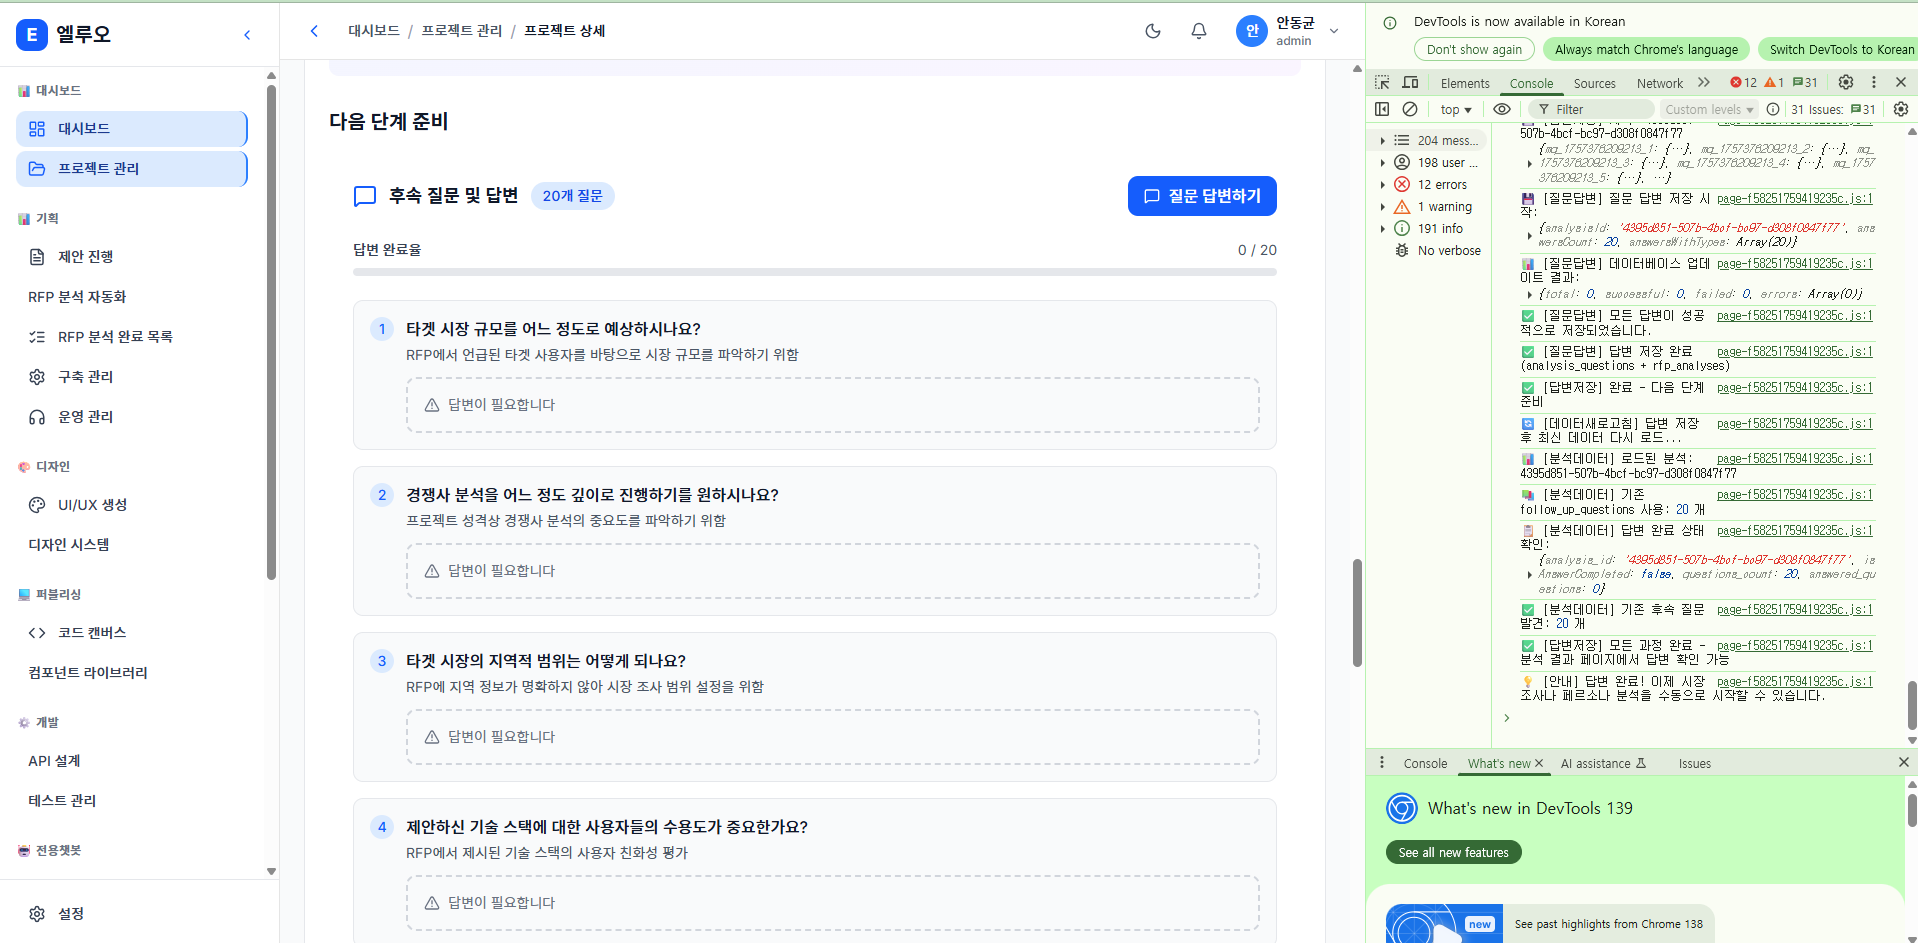
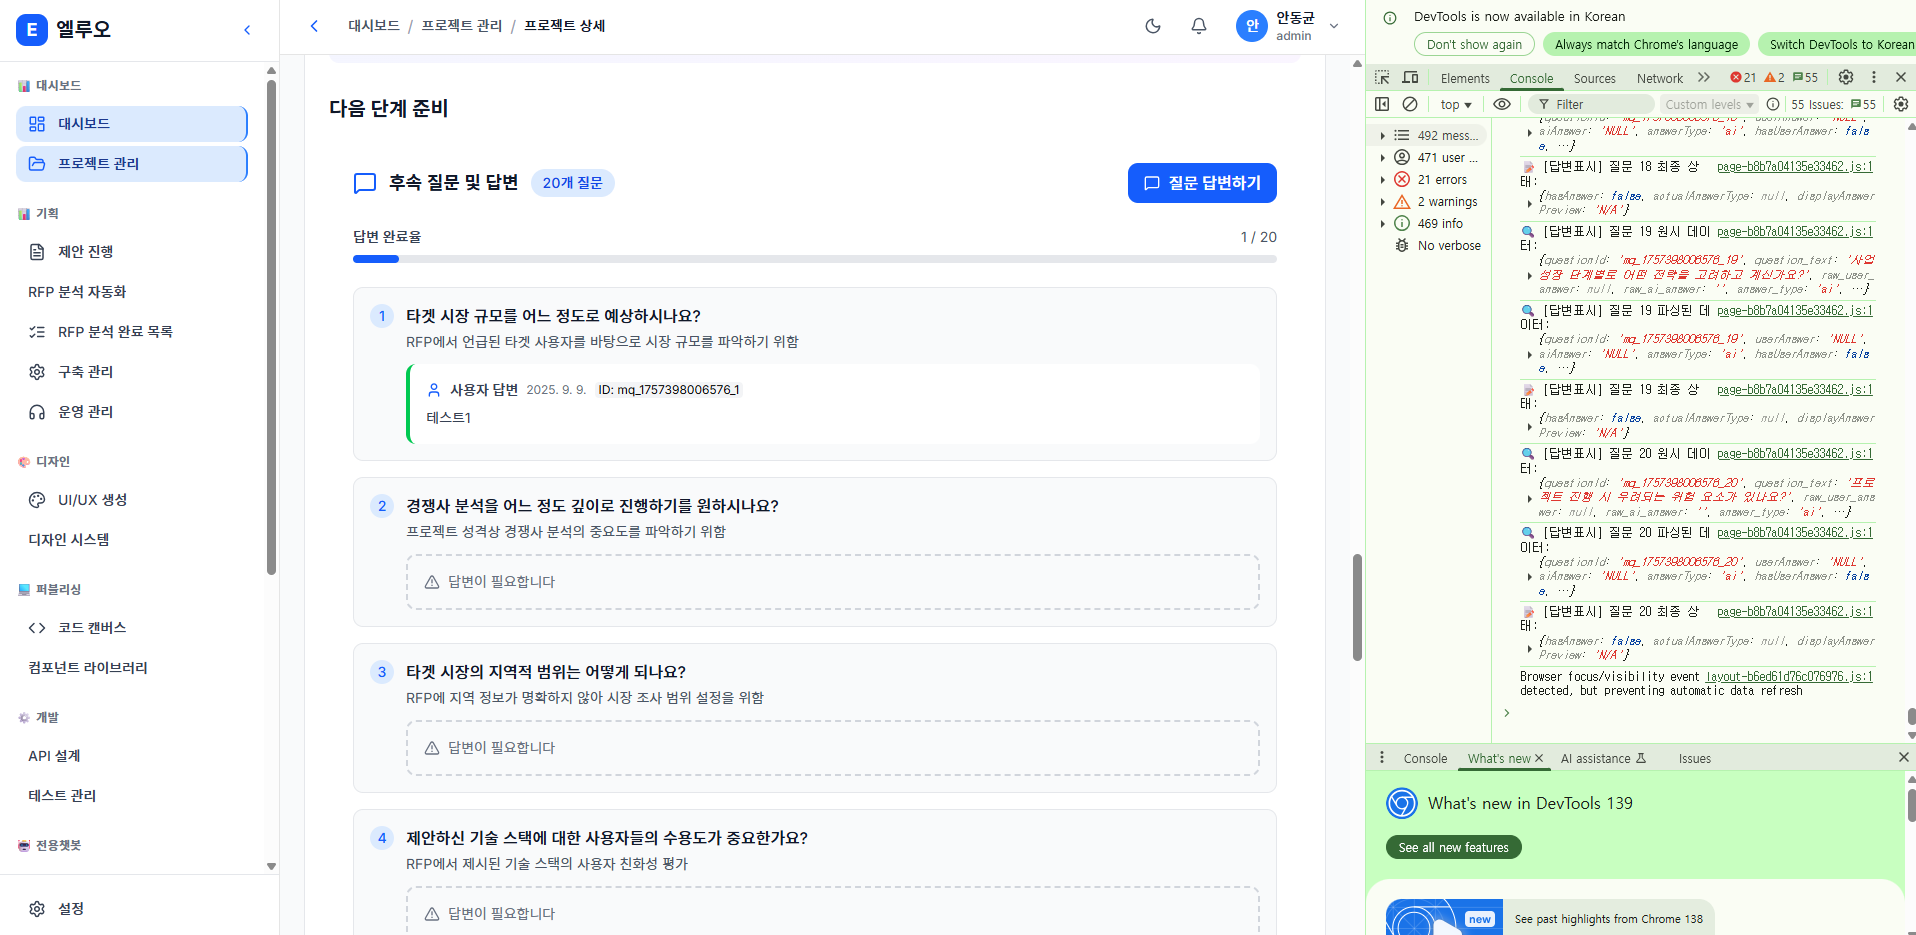
fix: AI 질문 생성 시 답변 저장 로직 개선 및 디버깅 로그 추가

diff --git a/src/app/api/rfp/generate-questions/route.ts b/src/app/api/rfp/generate-questions/route.ts
@@ -130,18 +130,27 @@ export async function POST(request: NextRequest) {
     const aiResponse = anthropicResult.content[0]?.text || ''
 
     console.log('📄 [후속질문-생성] AI 응답 수신:', aiResponse.length, '문자')
+    console.log('🔍 [후속질문-생성] AI 응답 내용 (처음 500자):', aiResponse.substring(0, 500))
 
     // JSON 응답 파싱
     let questionData
     try {
       const jsonMatch = aiResponse.match(/\{[\s\S]*\}/)
       if (jsonMatch) {
+        console.log('✅ [후속질문-생성] JSON 매치 성공:', jsonMatch[0].substring(0, 200))
         questionData = JSON.parse(jsonMatch[0])
+        console.log('📊 [후속질문-생성] 파싱된 질문 수:', questionData.questions?.length || 0)
+        
+        // 첫 번째 질문의 suggested_answer 확인
+        if (questionData.questions && questionData.questions[0]) {
+          console.log('🔍 [후속질문-생성] 첫 번째 질문 suggested_answer:', questionData.questions[0].suggested_answer)
+        }
       } else {
         throw new Error('JSON 형식의 응답을 찾을 수 없습니다.')
       }
     } catch (parseError) {
       console.error('❌ [후속질문-생성] JSON 파싱 실패:', parseError)
+      console.error('🔍 [후속질문-생성] 원본 응답:', aiResponse)
       // 파싱 실패 시 fallback 질문들
       questionData = {
         questions: [
@@ -170,6 +179,13 @@ export async function POST(request: NextRequest) {
     // analysis_questions 테이블에 질문과 AI 답변 함께 저장
     const questionsWithAnswers = questionData.questions || []
     const insertPromises = questionsWithAnswers.map((question: any, index: number) => {
+      // AI 답변 fallback 로직 - 여러 필드명 시도
+      const aiAnswer = question.suggested_answer || 
+                       question.answer || 
+                       question.ai_answer || 
+                       question.default_answer || 
+                       `이 질문에 대한 답변을 제공해주세요. (${question.category || 'general'} 관련)`
+
       return (supabase as any)
         .from('analysis_questions')
         .insert({
@@ -180,7 +196,7 @@ export async function POST(request: NextRequest) {
           category: question.category || 'general',
           priority: question.importance || 'medium',
           context: question.purpose || '',
-          ai_generated_answer: question.suggested_answer || '',
+          ai_generated_answer: aiAnswer,
           ai_answer_generated_at: new Date().toISOString(),
           order_index: index + 1
         })
@@ -200,23 +216,34 @@ export async function POST(request: NextRequest) {
 
     // rfp_analyses 테이블에도 후속 질문 업데이트 (기존 호환성)
     // AI 답변을 포함한 완전한 질문 데이터 생성
-    const enhancedQuestions = questionsWithAnswers.map((question: any, index: number) => ({
-      id: `mq_${Date.now()}_${index + 1}`,
-      project_id: (rfpAnalysis as any).project_id,
-      question_text: question.question_text,
-      question_type: 'follow_up',
-      category: question.category || 'general',
-      priority: question.importance || 'medium',
-      context: question.purpose || '',
-      ai_generated_answer: question.suggested_answer || '',
-      user_answer: null,
-      answer_type: null, // 초기에는 답변 타입이 선택되지 않은 상태
-      answered_at: null, // 아직 답변이 완료되지 않은 상태
-      order_index: index + 1,
-      rfp_analysis_id: analysis_id,
-      created_at: new Date().toISOString(),
-      next_step_impact: question.purpose || ''
-    }))
+    const enhancedQuestions = questionsWithAnswers.map((question: any, index: number) => {
+      // AI 답변 fallback 로직 - 여러 필드명 시도
+      const aiAnswer = question.suggested_answer || 
+                       question.answer || 
+                       question.ai_answer || 
+                       question.default_answer || 
+                       `이 질문에 대한 답변을 제공해주세요. (${question.category || 'general'} 관련)`
+
+      console.log(`🔍 [후속질문-생성] 질문 ${index + 1} AI 답변:`, aiAnswer)
+
+      return {
+        id: `mq_${Date.now()}_${index + 1}`,
+        project_id: (rfpAnalysis as any).project_id,
+        question_text: question.question_text,
+        question_type: 'follow_up',
+        category: question.category || 'general',
+        priority: question.importance || 'medium',
+        context: question.purpose || '',
+        ai_generated_answer: aiAnswer,
+        user_answer: null,
+        answer_type: null, // 초기에는 답변 타입이 선택되지 않은 상태
+        answered_at: null, // 아직 답변이 완료되지 않은 상태
+        order_index: index + 1,
+        rfp_analysis_id: analysis_id,
+        created_at: new Date().toISOString(),
+        next_step_impact: question.purpose || ''
+      }
+    })
 
     console.log('💾 [후속질문-생성] JSON 필드에 AI 답변 포함 저장:', enhancedQuestions.length, '개')
     
